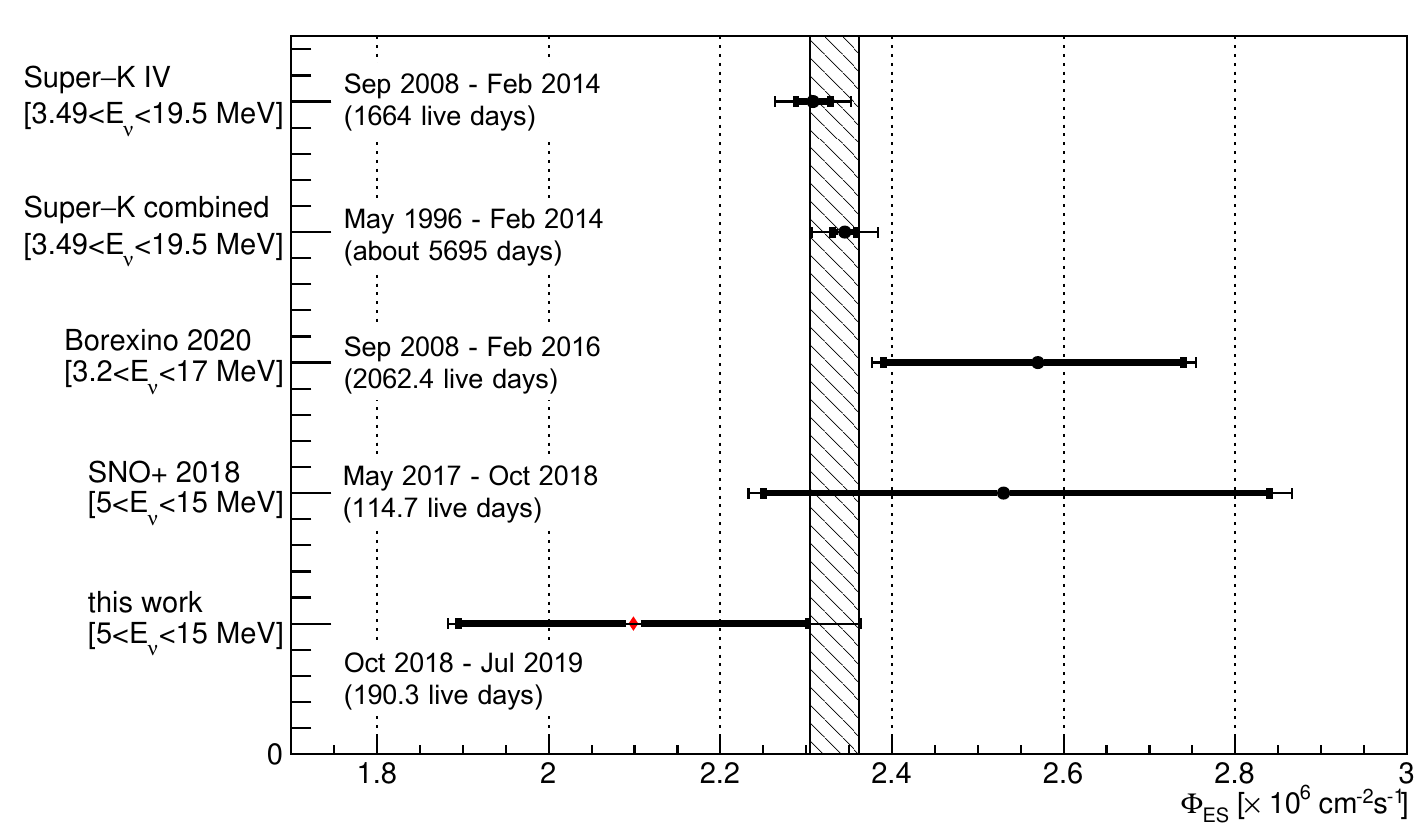
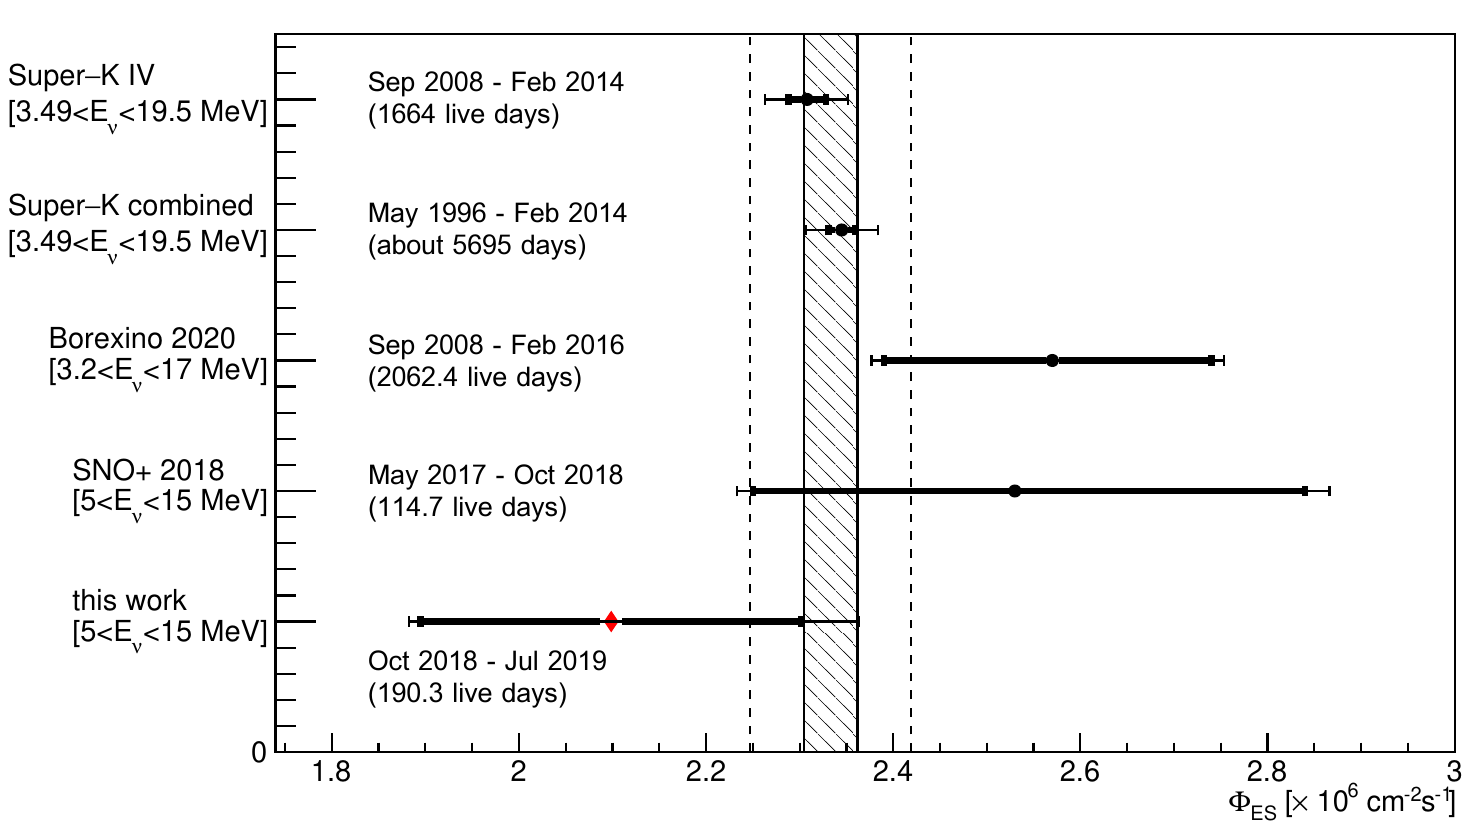
add more

diff --git a/chapter6waterAnaly.tex b/chapter6waterAnaly.tex
@@ -341,7 +341,7 @@ From the run-by-run MC simulations of the half-dataset, about 70\% of the events
 	\end{tabular*}
 \end{table}
 
-Three machine-learning algorithms/classification methods implemented in the \texttt{TMVA} package were applied to the training and testing datasets: the Fisher discriminants/linear discriminant analysis (Fisher/LD), the Boosted Decision Tree (BDT), and the Artificial Neural Networks Multilayer Perceptron (ANN-MLP, or MLP in short) \cite{albertsson2007tmva}.
+Three machine-learning algorithms/classification methods implemented in the \texttt{TMVA} package were applied to the training and testing datasets: the Fisher discriminants/Linear Discriminant analysis (Fisher/LD), the Boosted Decision Tree (BDT), and the Artificial Neural Networks Multilayer Perceptron (ANN-MLP, or MLP in short) \cite{albertsson2007tmva}.
 
 The Fisher discriminant $y_{F_i}(i)$ for classifying event $i$ is defined by \cite{tmvaWebsite}:
 \begin{equation}
@@ -829,12 +829,12 @@ A quadratic total uncertainty $\sigma_{tot}$ is calculated by combining the larg
 \sigma_{tot}=\sqrt{\sigma^2_{stat,larger}+\sigma^2_{sys,larger}}\; .
 \end{equation}
 
-Fig.~\ref{fig:ESfluxCompare} shows a comparison of the $\Phi_{ES}$ results given here to recent measurements from SNO+ \cite{anderson2019measurement}, Super-K \cite{abe2016solar} and Borexino \cite{agostini2020improved}. The energy regions for the analyses, the start and end dates of the data-taking, and the live time are also shown in the figure.
+Fig.~\ref{fig:ESfluxCompare} shows a comparison of the $\Phi_{ES}$ results given here to recent measurements from SNO+ \cite{anderson2019measurement}, Super-K \cite{abe2016solar} and Borexino \cite{agostini2020improved}. For each measurement, the energy regions for the analyses, the start and end dates of the data-taking, and the live time are shown in the figure.
 
 \begin{figure}[!htb]
 	\centering
 	\includegraphics[width=14cm]{ESfluxCompare.png}
-	\caption[A comparison of the ES flux measured recently by three independent experiments.]{A comparison of the ES fluxes measured recently by three independent experiments: SNO+ 2018 published data (SNO+ 2018) \cite{anderson2019measurement}, Super-K phase-IV measurement (Super-K IV) and the combined four phases measurement (Super-K combined) \cite{abe2016solar}, and the Borexino measurements published in 2020 (Borexino 2020) \cite{agostini2020improved}. The thick error bars include the statistical errors and the thin ones are quadratic errors including both the statistical and systematical errors. The shaded band is for the unconstrained average value and uncertainty of all the results: $\hat \theta \pm 1\sigma_{\hat \theta}$.\label{fig:ESfluxCompare}}
+	\caption[A comparison of the ES flux measured recently by three independent experiments.]{A comparison of the ES fluxes measured recently by three independent experiments: SNO+ 2018 published data (SNO+ 2018) \cite{anderson2019measurement}, Super-K phase-IV measurement (Super-K IV) and the combined four phases measurement (Super-K combined) \cite{abe2016solar}, and the Borexino measurements published in 2020 (Borexino 2020) \cite{agostini2020improved}. The thick error bars include the statistical errors and the thin ones are quadratic errors including both the statistical and systematical errors. The shaded band is for the unconstrained average value and uncertainty of all the results: $\hat \theta \pm 1\sigma_{\hat \theta}$. The region between the two dashed vertical lines gives a $\hat \theta \pm 3\sigma_{\hat \theta}$ band.\label{fig:ESfluxCompare}}
 \end{figure}
 
 To combine the results from different experiments, an unconstrained average value $\hat \theta$ and its uncertainty $\sigma_{\hat\theta}$ are calculated by \cite{pdg2020,behnke2013data}:

diff --git a/conclusion.tex b/conclusion.tex
@@ -2,13 +2,15 @@ In this thesis, a reconstruction algorithm framework (the Multi-Path Fitter) was
 
 For the water phase, the reconstruction uncertainties in event position, direction and energy were determined by analyzing the data and simulations of $^{16}$N source calibrations. For a fiducial volume of 5.5 m, the position biases between the data and simulations in the $(x,y,z)$ axes are all within $\pm10$ mm; the fractional energy scale uncertainty is $1.0$\%, and the fractional uncertainty on the energy resolution at kinetic energy $T_e$ is $0.037\sqrt{T_e/\mathrm{MeV}}$.
 
-By utilizing the water phase reconstruction, this thesis provides an alternative analysis for the $^8$B solar neutrino measurement during the SNO+ water phase. By looking at the low background dataset for 190.33 live days, a $^8$B solar neutrino rate of $0.953\pm0.0925$~events/(kt$\cdot$day) with a background rate of $0.310\pm 0.0607$ events/(kt$\cdot$day) in the energy region [5,15] MeV were obtained. As the energy threshold is pushed down to 5 MeV, this background rate is significantly low (about $\frac{1}{3}$ of the solar $\nu_e$ rate) for the solar neutrino measurement in a water Cherenkov detector.
+By utilizing the water phase reconstruction, this thesis provides an alternative analysis for the $^8$B solar neutrino measurement during the SNO+ water phase. By looking at the low background dataset for 190.33 live days, a $^8$B solar neutrino rate of $0.953\pm0.0925$~events/(kt$\cdot$day) with a background rate of $0.310\pm 0.0607$ events/(kt$\cdot$day) in the energy region [5,15] MeV were obtained. As the energy threshold is pushed down to 5 MeV, this background rate is significantly low for the solar neutrino measurement in a water Cherenkov detector.
 
-The result also gives an estimated $^8$B solar neutrino flux as: 
+Based on the same dataset in the energy region [5,15] MeV, an estimated $^8$B solar neutrino flux is evaluated as: 
+\begin{equation*}
+\Phi_{\mathrm{^8B}}=(4.62 \pm 0.447 \mathrm{(stat.)}^{+0.300}_{-0.137}\mathrm{(syst.)})\times 10^6 \mathrm{cm}^{-2}\mathrm{s}^{-1}\;, 
+\end{equation*}
+while the elastic scattering flux is:
+\begin{equation*}
+\Phi_{\mathrm{ES}}=(2.10 \pm 0.204\mathrm{(stat.)}^{+0.169}_{-0.0722}\mathrm{(syst.)})\times 10^6 \mathrm{cm}^{-2}\mathrm{s}^{-1}\;.
+\end{equation*}
 
-$\Phi_{\mathrm{^8B}}=(4.62 \pm 0.447 \mathrm{(stat.)}^{+0.300}_{-0.137}\mathrm{(syst.)})\times10^6$ cm$^{-2}$s$^{-1}$, 
-while the elastic scattering flux is measured as: 
-
-$\Phi_{\mathrm{ES}}=(2.10 \pm 0.204\mathrm{(stat.)}^{+0.169}_{-0.0722}\mathrm{(syst.)})\times10^6$ cm$^{-2}$s$^{-1}$.
-
-The $\Phi_{\mathrm{ES}}$ result given here is consistent with the recent measurements from the Super-Kamiokande and Borexino experiments.
+The $\Phi_{\mathrm{ES}}$ result given here is consistent with the recent measurements from the SNO+, Super-Kamiokande and Borexino experiments.
